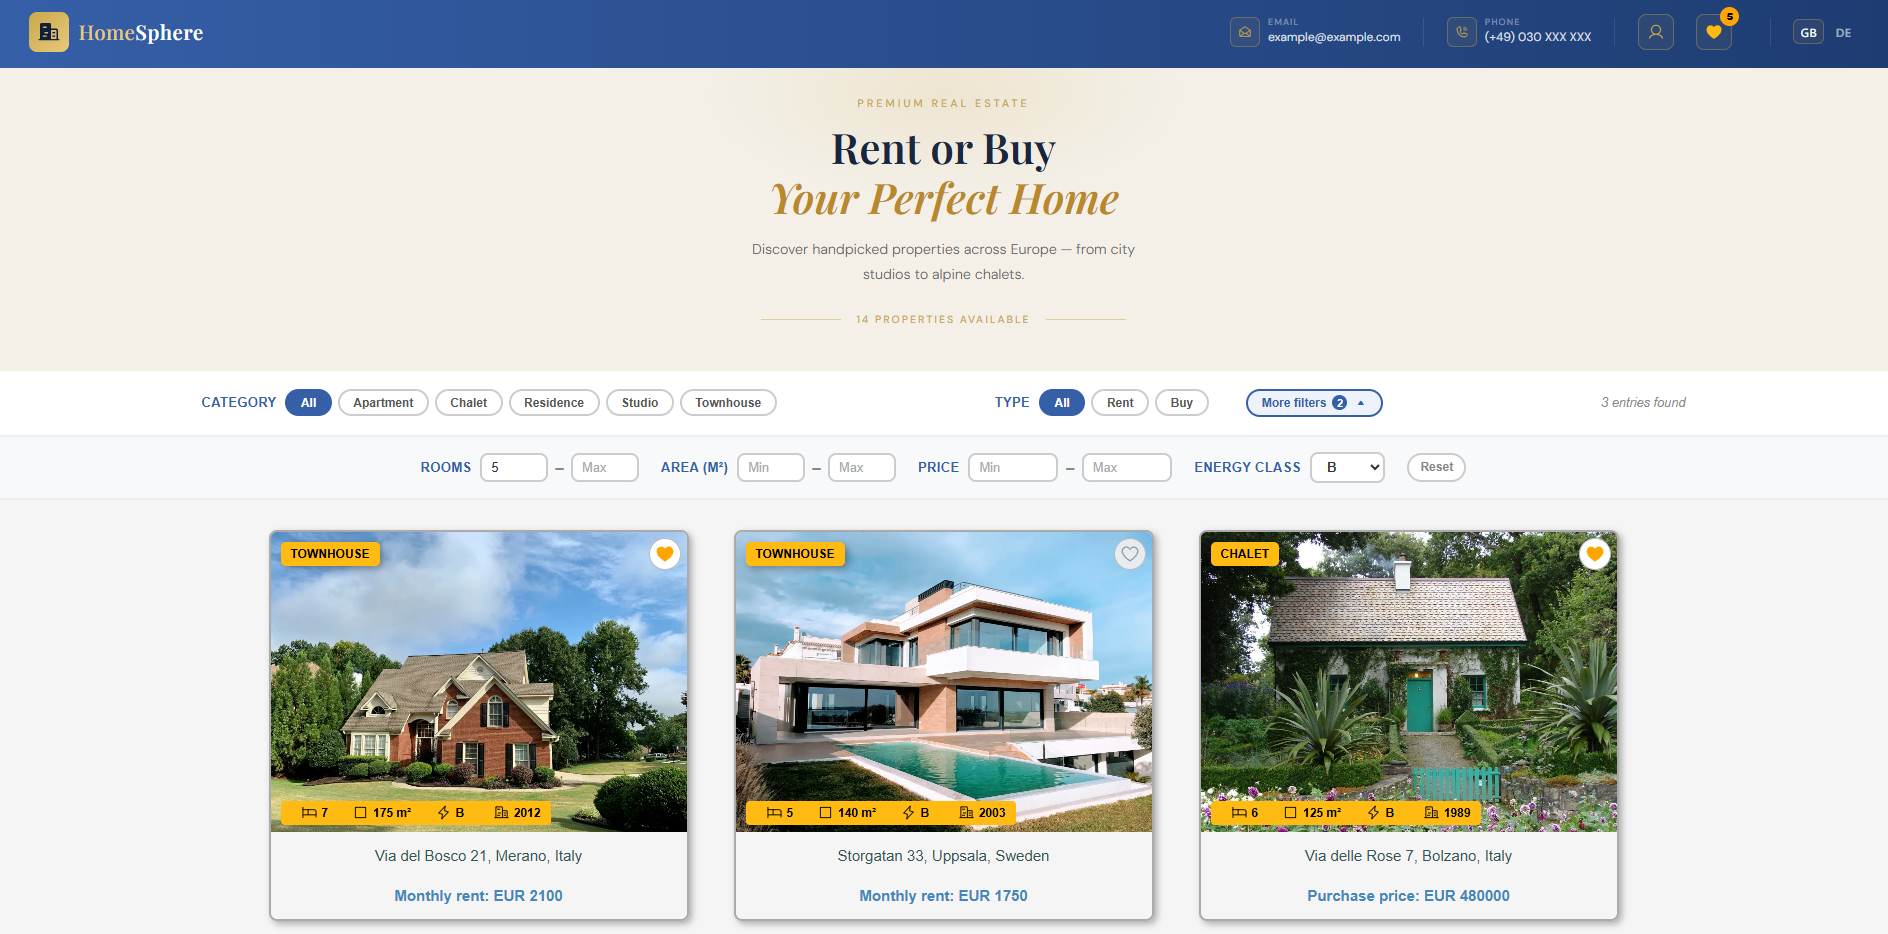
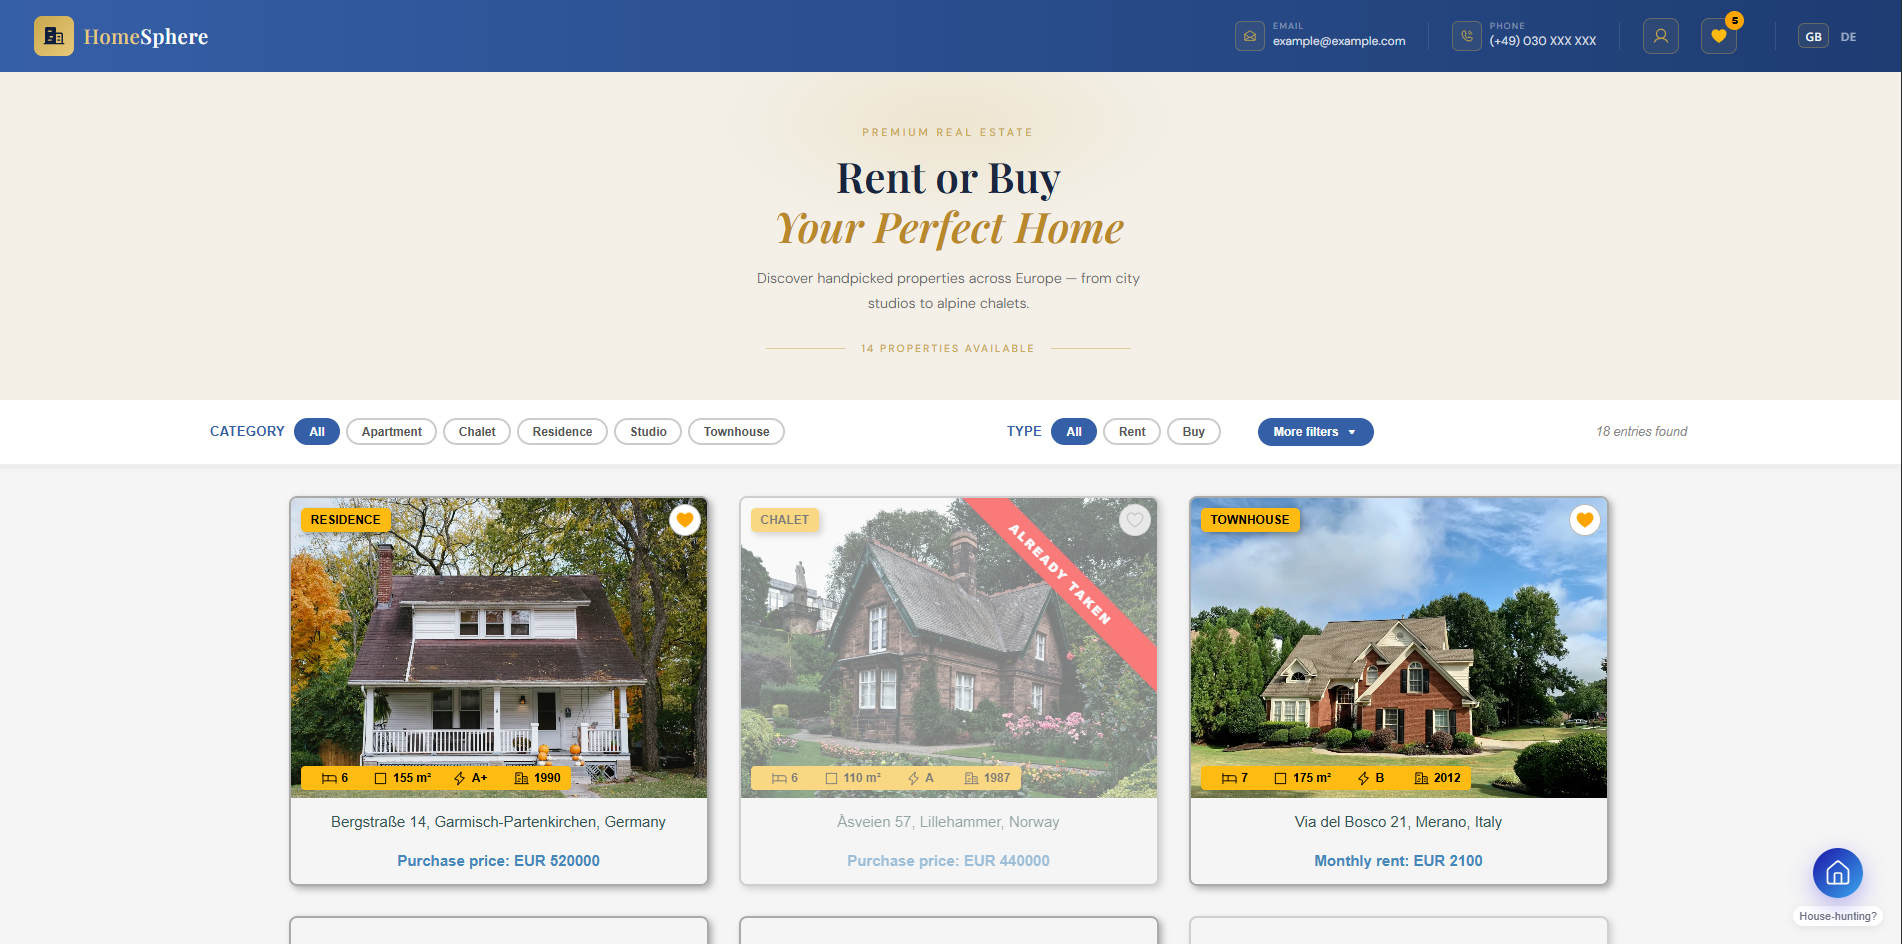
docs(README): update README.md

diff --git a/README.md b/README.md
@@ -18,7 +18,7 @@
 
 ### Demo login (read-only admin)
 
-Interested users who simply want to test the app can explore the admin dashboard—but without modifying production data:
+Interested users who simply want to test the admin part of this app can explore the admin dashboard — but without modifying production data:
 
 |              |                                                                                    |
 | ------------ | ---------------------------------------------------------------------------------- |
@@ -38,15 +38,15 @@ Built with **security**, **performance**, and **user experience** in mind – fe
 
 ## Screenshots
 
-|                                                                                          |                                                                                    |
-| ---------------------------------------------------------------------------------------- | ---------------------------------------------------------------------------------- |
-| ![Home](client/public/screenshots/home.png)<br>_Home Page with Advanced Filter_          | ![Main](client/public/screenshots/main.png)<br>_Main Listings_                     |
-| ![Footer](client/public/screenshots/footer.png)<br>_Footer_                              | ![Details](client/public/screenshots/details.png)<br>_Property Details_            |
-| ![Contact Form](client/public/screenshots/contact-form.png)<br>_Contact Form_            | ![Favorites](client/public/screenshots/favorites-page.png)<br>_Favorites_          |
-| ![Calculator](client/public/screenshots/calculator.png)<br>_Mortgage Calculator_         | ![Contact Page](client/public/screenshots/contact-page.png)<br>_Contact Page_      |
-| ![Login](client/public/screenshots/login-page.png)<br>_Login_                            | ![Admin](client/public/screenshots/admin-page.png)<br>_Admin Dashboard_            |
-| ![Add Entry](client/public/screenshots/add-new-entry-modal.png)<br>_Add New Entry Modal_ | ![Edit Entry](client/public/screenshots/edit-entry-modal.png)<br>_Add Entry Modal_ |
-| ![Delete Entry](client/public/screenshots/delete-entry-modal.png)<br>_Delete Entry_      |                                                                                    |
+|                                                                                             |                                                                                    |
+| ------------------------------------------------------------------------------------------- | ---------------------------------------------------------------------------------- |
+| ![Home](client/public/screenshots/home.png)<br>_Home Page with Advanced Filter & AI Button_ | ![Main](client/public/screenshots/main.png)<br>_Main Listings_                     |
+| ![Footer](client/public/screenshots/footer.png)<br>_Footer_                                 | ![Details](client/public/screenshots/details.png)<br>_Property Details_            |
+| ![Contact Form](client/public/screenshots/contact-form.png)<br>_Contact Form_               | ![Favorites](client/public/screenshots/favorites-page.png)<br>_Favorites_          |
+| ![Calculator](client/public/screenshots/calculator.png)<br>_Mortgage Calculator_            | ![Contact Page](client/public/screenshots/contact-page.png)<br>_Contact Page_      |
+| ![Login](client/public/screenshots/login-page.png)<br>_Login_                               | ![Admin](client/public/screenshots/admin-page.png)<br>_Admin Dashboard_            |
+| ![Add Entry](client/public/screenshots/add-new-entry-modal.png)<br>_Add New Entry Modal_    | ![Edit Entry](client/public/screenshots/edit-entry-modal.png)<br>_Add Entry Modal_ |
+| ![Delete Entry](client/public/screenshots/delete-entry-modal.png)<br>_Delete Entry_         | ![Not Found](client/public/screenshots/404.png)<br>_Not Found Page_                |
 
 ---
 
